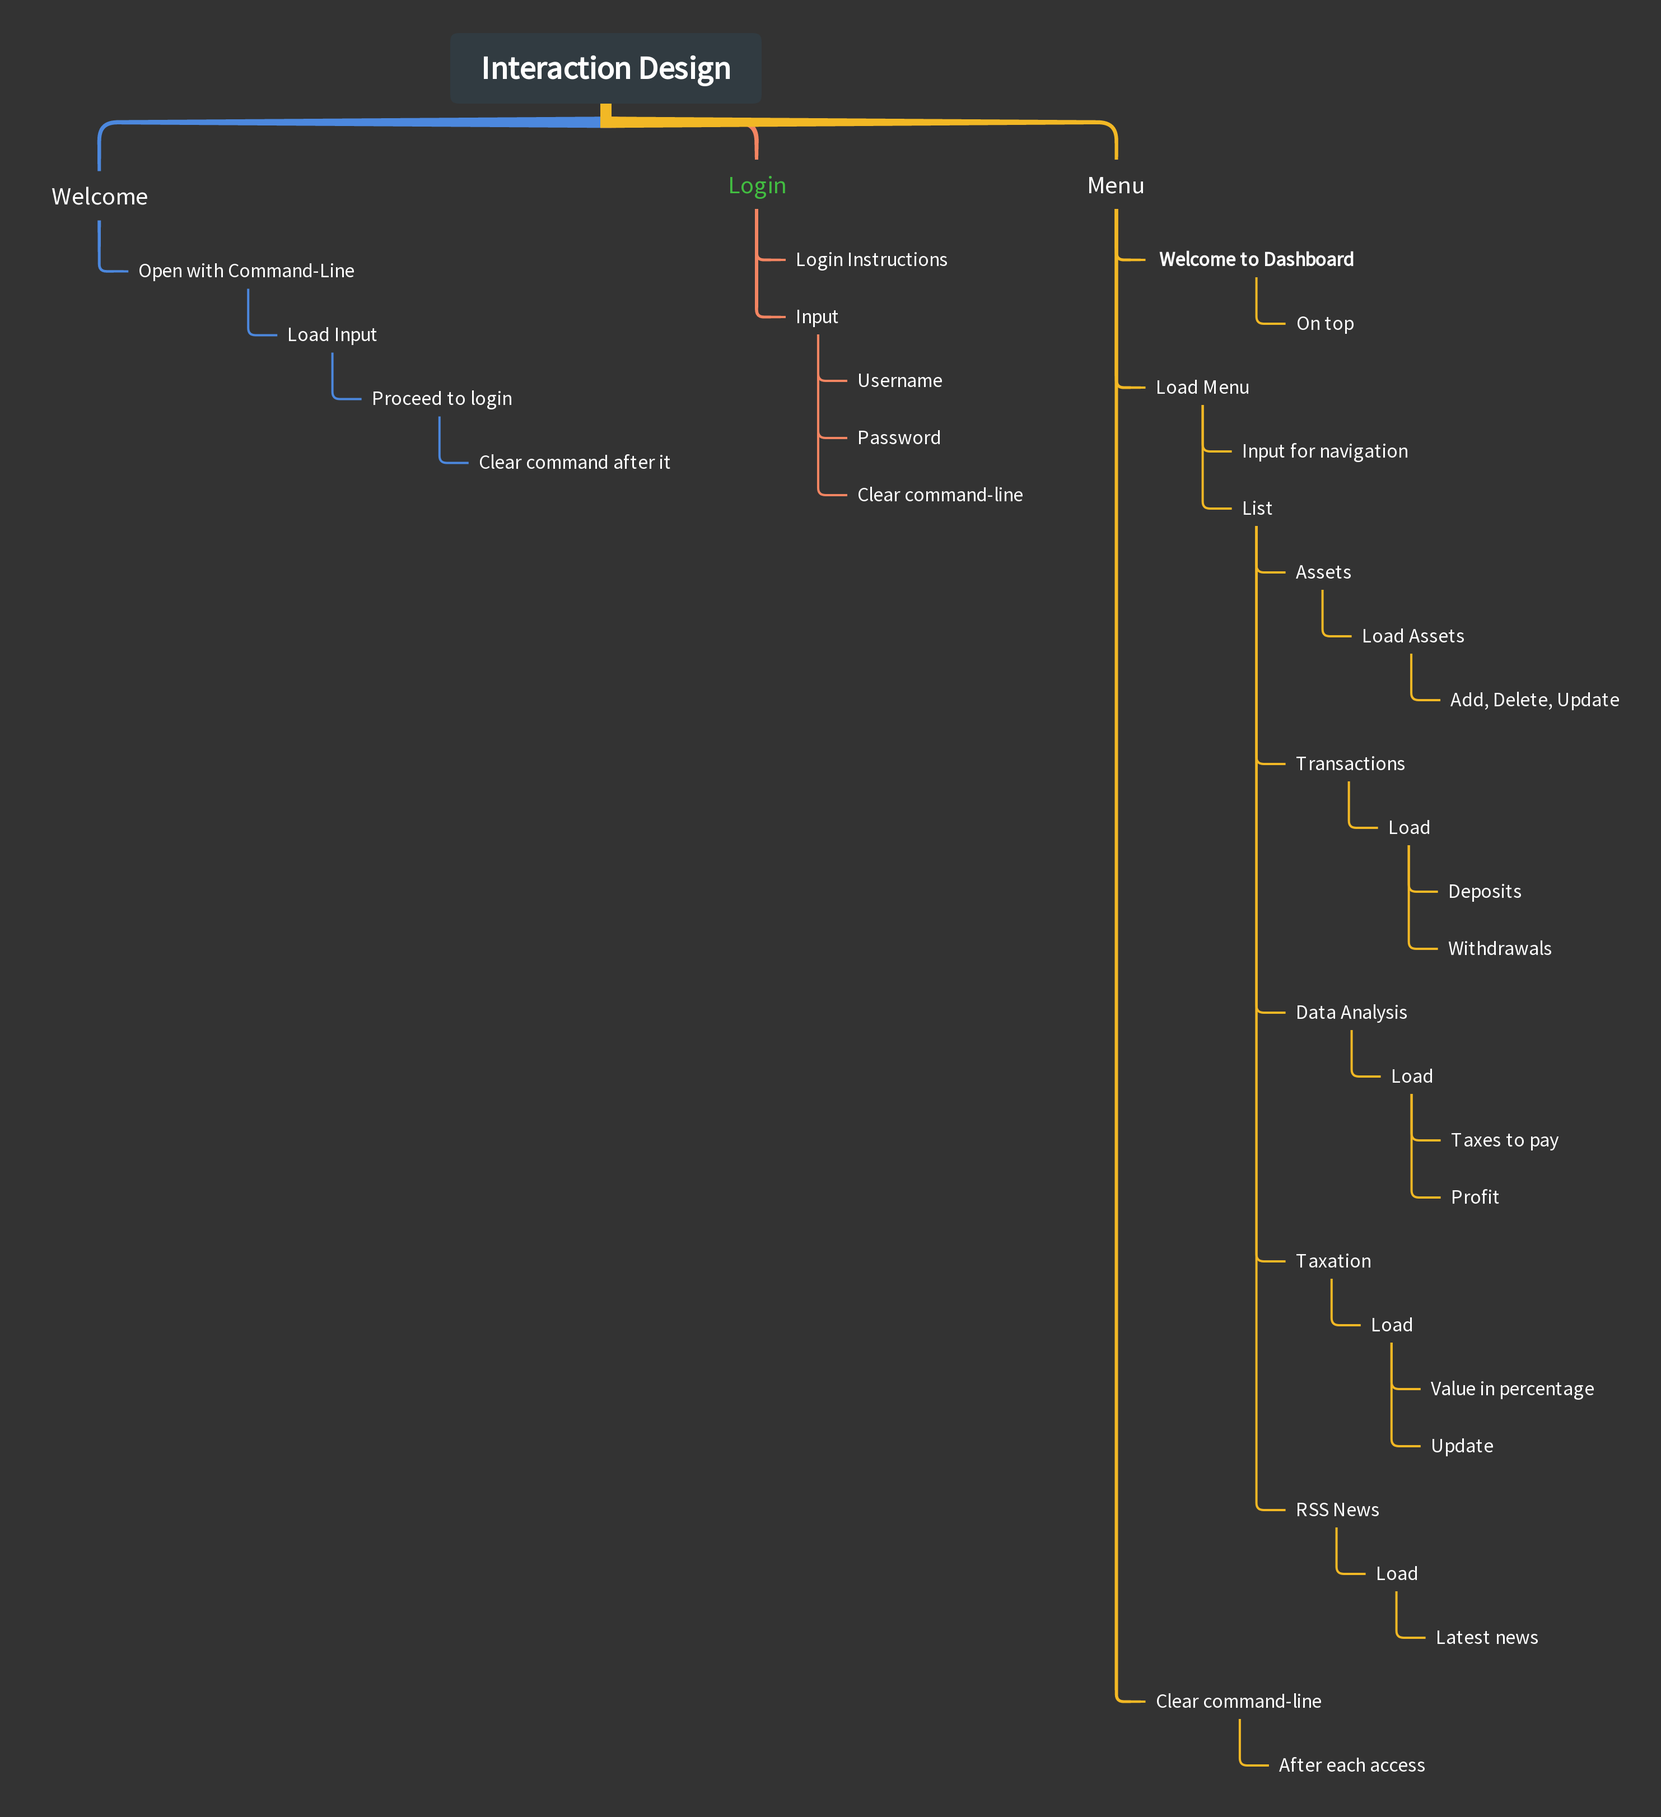
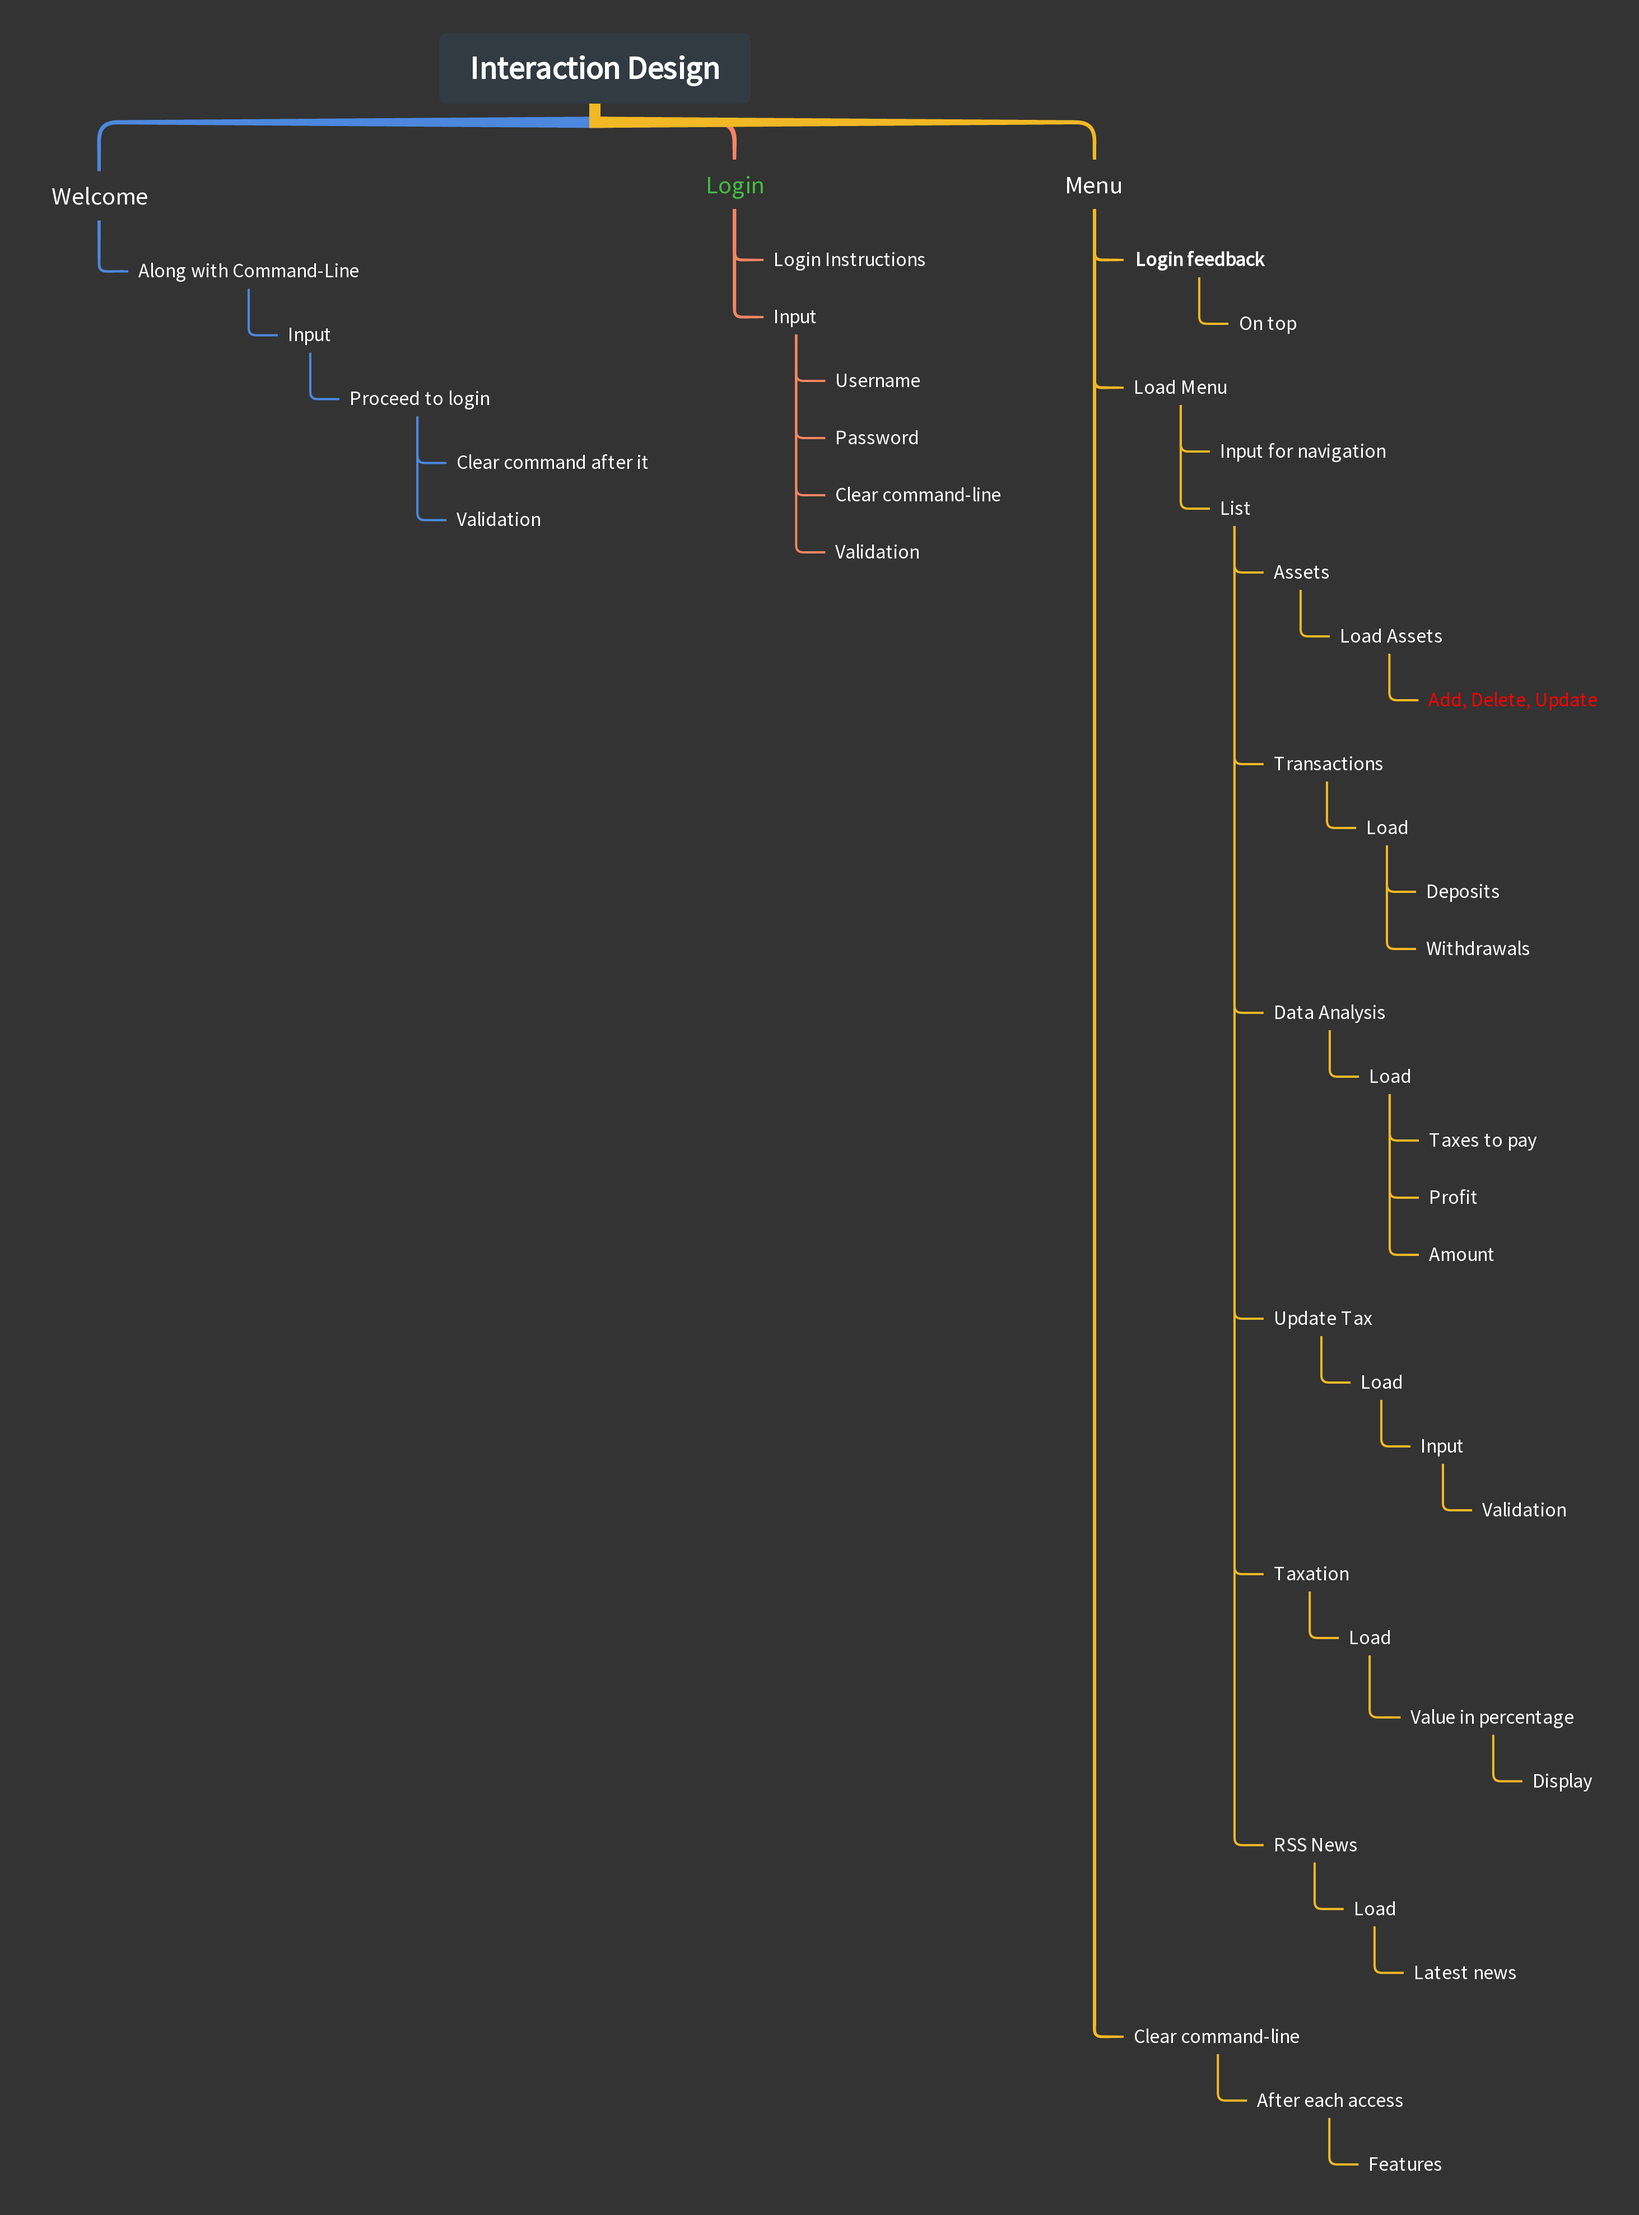
docs: update images readme.md

diff --git a/README.md b/README.md
@@ -84,7 +84,7 @@ The `Login` and `Welcome` features are definitely crucial, receiving a perfect s
 
 Similarly, the `Add, Delete, and Update` features also scored 5 out of 5. These features allow users to interact with the application beyond just inputting data.
 
-On the other hand, the `taxation` and `RSS information` features scored the lowest. Given our ambition, it might be reasonable to exclude one or both of these features in this iteration since they are not critical at the moment.
+On the other hand, the "taxation" and "RSS information" features scored the lowest. Considering our ambition, we initially believed it would not be possible to include one or both of these features in this iteration as they are not critical at the moment. However, we have managed to successfully add them to this MVP.
 
 Features that scored 4 or above, such as `Transaction History`, will definitely be included. However, if a feature scored 3 in viability, it means that it may not be as advanced, at least for now.
 
